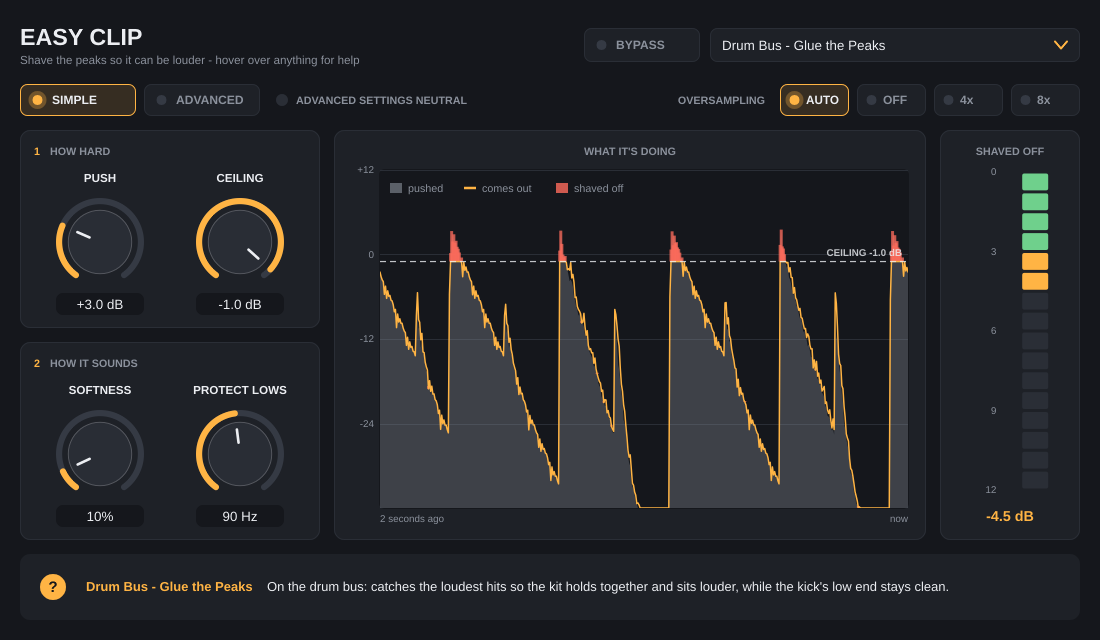
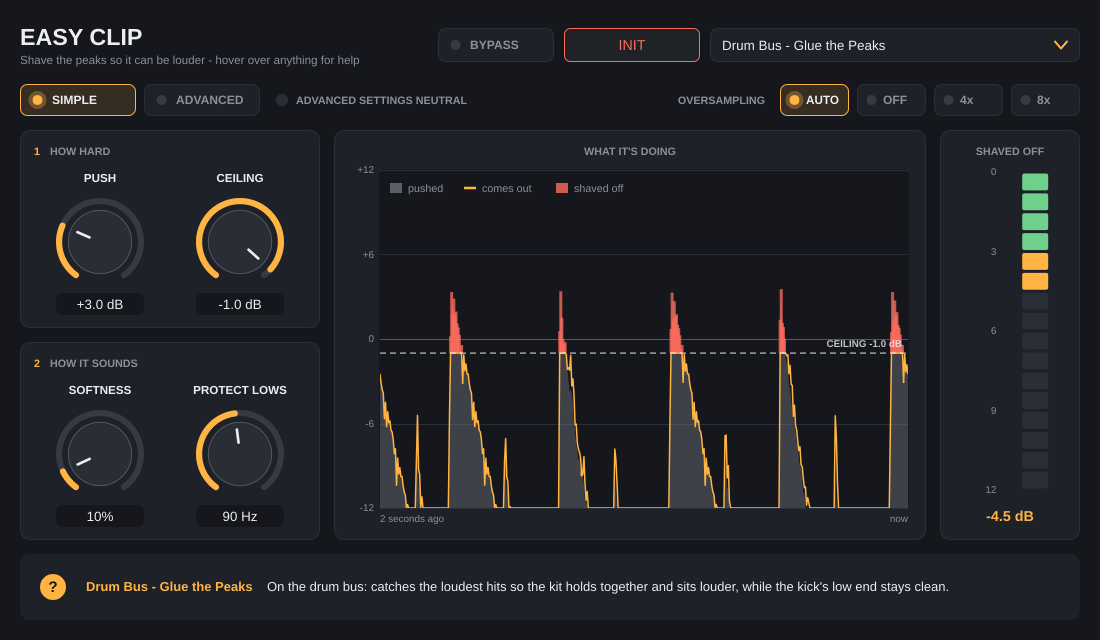
Easy Clip 1.0.1: display scale +12 to -12 with 0 in the middle; INIT for the whole plugin
Claude-Session: https://claude.ai/code/session_01KRn7UbAFWVf9LHLqhN9U6j

Changed region(s): [[0.34, 0.375, 0.8345, 0.8125], [0.5255, 0.0625, 0.6182, 0.0938], [0.4018, 0.0625, 0.4636, 0.0938]]

diff --git a/Plugins/EasyClip/PluginEditor.cpp b/Plugins/EasyClip/PluginEditor.cpp
@@ -57,6 +57,10 @@ namespace
         "Puts the ADVANCED settings (TOP, BOTTOM, LINK, BIAS and BLEND) back to neutral. PUSH, CEILING, SOFTNESS and "
         "PROTECT LOWS stay as they are.";
 
+    constexpr const char* initAllHint =
+        "Puts every knob back to its default (the same as the 'Default settings' preset): nothing is clipped until you turn "
+        "PUSH up. BYPASS, OVERSAMPLING and SIMPLE / ADVANCED stay as they are.";
+
     constexpr const char* viewHint =
         "SIMPLE shows the four main knobs. ADVANCED adds SOUND DESIGN: TOP, BOTTOM, BIAS and BLEND. Hidden settings keep "
         "working; the lamp stays lit while any ADVANCED setting isn't neutral, so nothing hidden can surprise you.";
@@ -155,7 +159,6 @@ void ClipDisplay::addMoments (const EasyClipAudioProcessor::Moment* newMoments, 
         next = (next + 1) % numMoments;
     }
 
-    fitScale();
     repaint();
 }
 
@@ -164,25 +167,8 @@ void ClipDisplay::setCeiling (float newCeilingDb)
     if (std::abs (newCeilingDb - ceilingDb) > 0.01f)
     {
         ceilingDb = newCeilingDb;
-        fitScale();
         repaint();
     }
-}
-
-void ClipDisplay::fitScale()
-{
-    // Keep both the ceiling and the loudest pushed moment in view, with a
-    // little room above, in 6 dB steps.
-    float loudest = ceilingDb;
-    for (auto& moment : history)
-        loudest = std::max (loudest, moment.pushedDb);
-
-    const float needed = juce::jlimit (-12.0f, 30.0f, loudest + 3.0f);
-    if (! hasFitted || needed > targetTopDb || needed < targetTopDb - 9.0f)
-        targetTopDb = std::ceil (needed / 6.0f) * 6.0f;
-
-    topDb = hasFitted ? topDb + juce::jlimit (-1.0f, 3.0f, targetTopDb - topDb) : targetTopDb;
-    hasFitted = true;
 }
 
 void ClipDisplay::setBypassed (bool isBypassed)
@@ -214,13 +200,14 @@ void ClipDisplay::paint (juce::Graphics& g)
     g.setColour (Palette::background);
     g.fillRoundedRectangle (plot.expanded (1.0f), 6.0f);
 
-    // Grid and scale, every 12 dB
+    // Grid and scale, every 6 dB from +12 to -12 (0 dB, the loudest a recording
+    // can be before it clips, a little brighter)
     g.setFont (juce::Font (juce::FontOptions (11.0f)));
 
-    for (int db = 12 * (int) std::floor (topDb / 12.0f); (float) db > bottomDb; db -= 12)
+    for (int db = 12; db >= -12; db -= 6)
     {
         const float y = yFor ((float) db);
-        g.setColour (Palette::panelEdge);
+        g.setColour (db == 0 ? Palette::textDim.withAlpha (0.55f) : Palette::panelEdge);
         g.drawHorizontalLine (juce::roundToInt (y), plot.getX(), plot.getRight());
         g.setColour (Palette::textDim);
         g.drawText ((db > 0 ? "+" : "") + juce::String (db), juce::Rectangle<float> (0.0f, y - 7.0f, plot.getX() - 6.0f, 14.0f),
@@ -382,6 +369,19 @@ EasyClipAudioProcessorEditor::EasyClipAudioProcessorEditor (EasyClipAudioProcess
     initButton.onClick = [this] { clipProcessor.resetAdvanced(); };
     addAndMakeVisible (initButton);
     addHint (initButton, "INIT (ADVANCED)", initHint);
+
+    // INIT for the whole plugin, in the header: every knob back to its
+    // default (the same as the "Default settings" preset)
+    initAllButton.setColour (juce::TextButton::buttonColourId, Palette::panel);
+    initAllButton.setColour (juce::TextButton::textColourOffId, Palette::meterHigh);
+    initAllButton.setColour (juce::ComboBox::outlineColourId, Palette::meterHigh);
+    initAllButton.onClick = [this]
+    {
+        presetBrowser.onPresetChosen (easyProcessor.getBuiltInPresets().front());   // "Default settings"
+    };
+    addAndMakeVisible (initAllButton);
+    putInHeader (initAllButton);
+    addHint (initAllButton, "INIT", initAllHint);
 
     viewSwitch.setHorizontal (true);
     qualitySwitch.setHorizontal (true);

diff --git a/Plugins/EasyClip/PluginEditor.h b/Plugins/EasyClip/PluginEditor.h
@@ -34,25 +34,19 @@ public:
     void setCeiling (float ceilingDb);
     void setBypassed (bool isBypassed);
 
-    /** The level (dB) at the top edge right now. */
-    float getTopDb() const noexcept   { return topDb; }
-
     void paint (juce::Graphics&) override;
 
     static constexpr int   numMoments = 480;     // 2.4 seconds of 5 ms moments
-    static constexpr float rangeDb    = 48.0f;   // from the top edge to the bottom
+    static constexpr float topDb      = 12.0f;   // a fixed scale: +12 dB at the top,
+    static constexpr float rangeDb    = 24.0f;   // 0 in the middle, -12 at the bottom
 
 private:
     juce::Rectangle<float> getPlotArea() const;
-    void fitScale();
 
     std::vector<EasyClipAudioProcessor::Moment> history;   // a ring: "next" is the oldest
     int next = 0;
     bool bypassed = false;
     float ceilingDb = 0.0f;
-
-    float topDb = 6.0f, targetTopDb = 6.0f;   // the scale glides from one to the other
-    bool hasFitted = false;
 };
 
 //==============================================================================
@@ -72,6 +66,7 @@ public:
     juce::Slider& getKnob (int index)          { return knobs[(size_t) index].slider; }
     juce::Button& getLinkButton()              { return linkButton; }
     juce::Button& getAdvancedInitButton()      { return initButton; }
+    juce::Button& getInitAllButton()           { return initAllButton; }
 
     /** (Tests only: treat changes to TOP and BOTTOM as made by hand, so LINK applies.) */
     bool linkEverything = false;
@@ -98,7 +93,7 @@ private:
     std::array<Knob, numKnobs> knobs;
     LightButton linkButton { "LINK", Palette::accent };
     std::unique_ptr<juce::AudioProcessorValueTreeState::ButtonAttachment> linkAttachment;
-    juce::TextButton initButton { "INIT" };
+    juce::TextButton initButton { "INIT" }, initAllButton { "INIT" };
 
     ChoiceSwitch viewSwitch, qualitySwitch;
     juce::Label qualityLabel;

diff --git a/DevTools/Tests/ClipTests.cpp b/DevTools/Tests/ClipTests.cpp
@@ -475,6 +475,18 @@ namespace
         window->updateDisplaysNow();
         check (! p.isAdvancedInUse() && getParam (p, ClipIDs::push) > 0.0f, "the INIT button in SOUND DESIGN resets just the ADVANCED settings");
 
+        set (p, ClipIDs::bias, 40.0f); set (p, ClipIDs::quality, 3.0f);
+        check (window->getInitAllButton().isVisible() && window->getInitAllButton().getY() < 80, "an INIT for the whole plugin, in the header");
+        window->getInitAllButton().onClick();
+        bool allDefault = true;
+        for (auto& id : clipPresetIDs())
+        {
+            auto* prm = p.parameters.getParameter (id);
+            if (std::abs (prm->getValue() - prm->getDefaultValue()) > 1e-6f) allDefault = false;
+        }
+        check (allDefault && p.getPresetName() == "Default settings" && getParam (p, ClipIDs::quality) == 3.0f && getParam (p, ClipIDs::view) == 1.0f,
+               "...which puts every knob back to its default ('Default settings'), leaving OVERSAMPLING and the view alone");
+
         // Help bar
         bool hintsOk = true;
         for (int k = 0; k < EasyClipAudioProcessorEditor::numKnobs; ++k)
